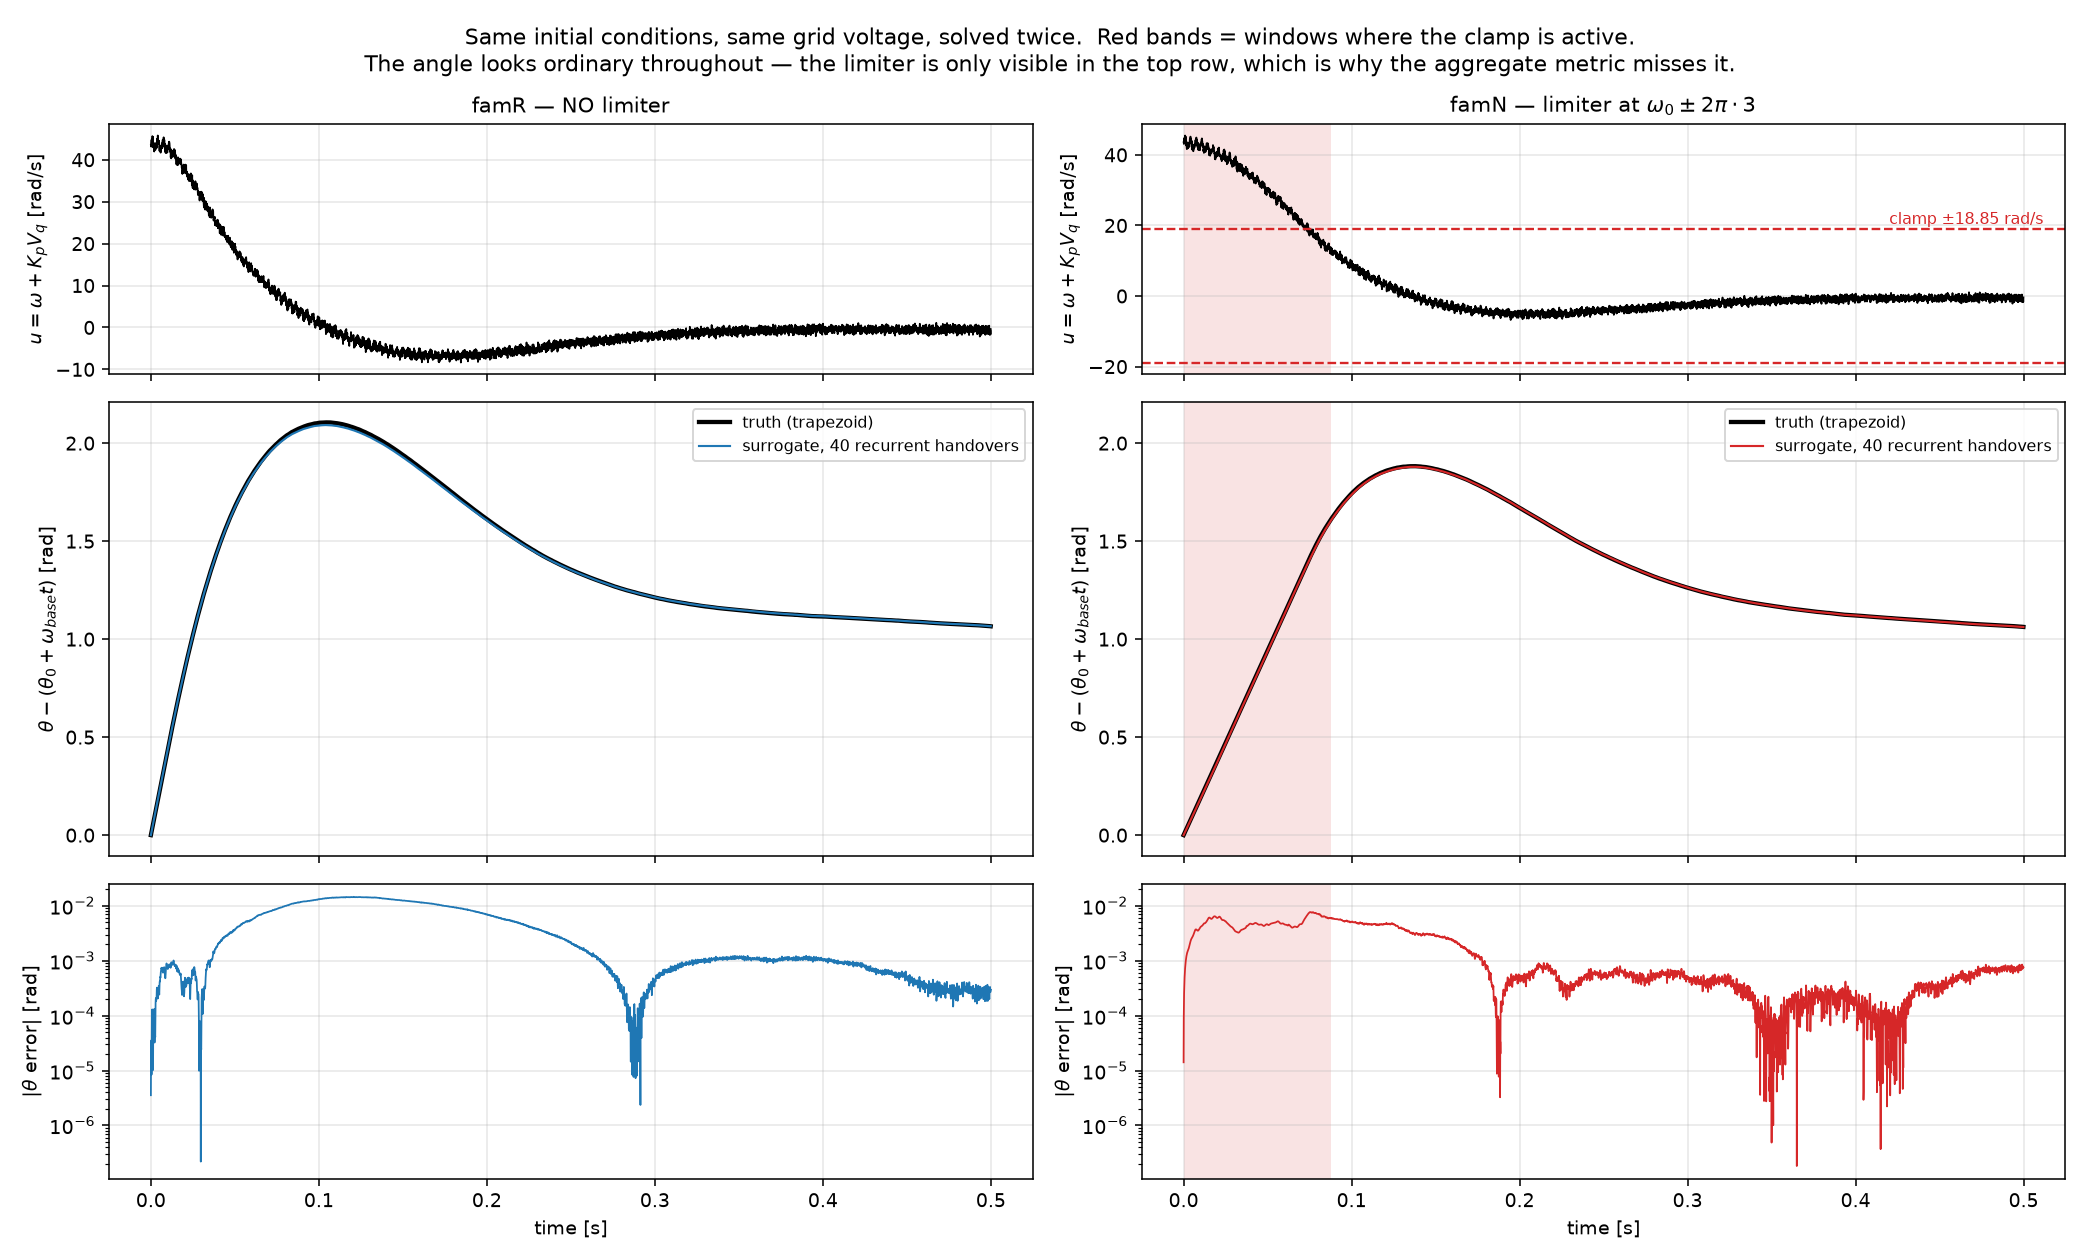
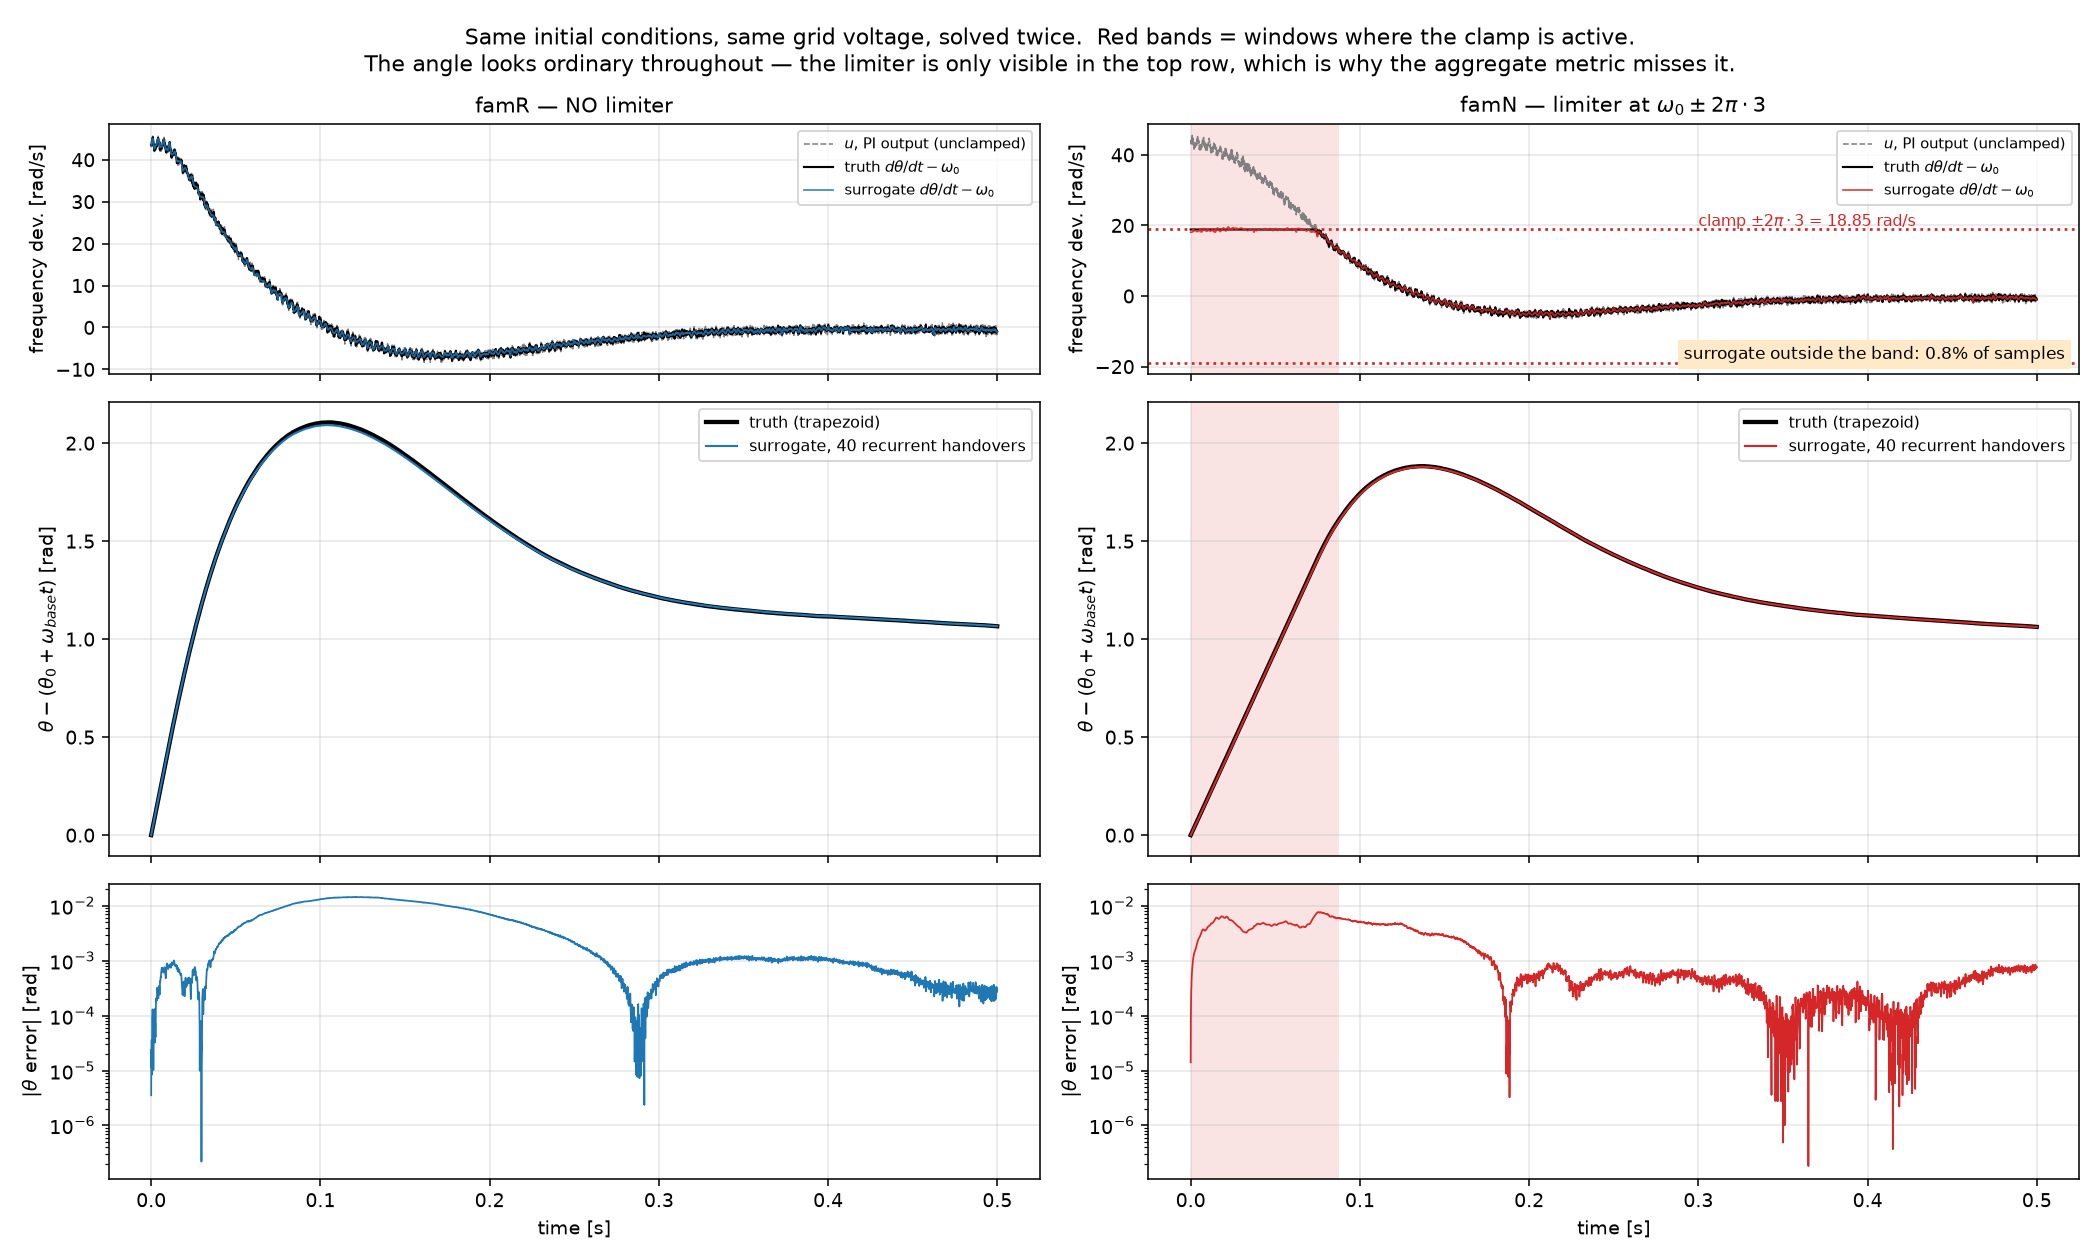
F65: constraint compliance, and famS/famT second draw in the gen script
The surrogate reproduces the clamped flat-top frequency: 0.00% of samples
outside the band on the median run, worst-case overshoot +1.18 rad/s (6.25% of
the limit). Caveat recorded -- numerical differentiation of a predicted angle
amplifies noise and the truth's own floor has not been measured the same way.

graphs/25 top row now plots dtheta/dt against the band rather than the unclamped
PI output, which is what shows the limiter acting and whether the surrogate
respects it.

diff --git a/src/limiter_trace.py b/src/limiter_trace.py
@@ -83,13 +83,28 @@ def main():
             for k in np.where(sat)[0]:
                 ax[row, c].axvspan(k * S * DT, (k + 1) * S * DT, color="tab:red", alpha=.13, lw=0)
 
-        ax[0, c].plot(t, u[r].numpy(), "k", lw=.9)
+        # THE panel: the frequency the PLL actually produces, dtheta/dt - omega_0.
+        # `u` dashed is what the PI *wanted*; the gap between them IS the limiter acting.
+        # The surrogate curve answers the question Siemens actually asked -- does the
+        # SURROGATE honour the limit, or only the solver it was trained on?
+        f_true = np.gradient(th_t[r].numpy(), DT) - OMEGA_BASE
+        f_pred = np.gradient(pth, DT) - OMEGA_BASE
+        ax[0, c].plot(t, u[r].numpy(), color="grey", ls="--", lw=.8, label="$u$, PI output (unclamped)")
+        ax[0, c].plot(t, f_true, "k", lw=1.1, label="truth $d\\theta/dt-\\omega_0$")
+        ax[0, c].plot(t, f_pred, "tab:blue" if c == 0 else "tab:red", lw=.9, alpha=.85,
+                      label="surrogate $d\\theta/dt-\\omega_0$")
         if L:
-            ax[0, c].axhline(L, color="tab:red", ls="--", lw=1.2)
-            ax[0, c].axhline(-L, color="tab:red", ls="--", lw=1.2)
-            ax[0, c].text(0.42, L * 1.08, "clamp $\\pm$18.85 rad/s", color="tab:red", fontsize=8)
+            ax[0, c].axhline(L, color="tab:red", ls=":", lw=1.4)
+            ax[0, c].axhline(-L, color="tab:red", ls=":", lw=1.4)
+            ax[0, c].text(0.30, L * 1.05, "clamp $\\pm 2\\pi\\cdot 3$ = 18.85 rad/s",
+                          color="tab:red", fontsize=8)
+            over = 100 * np.mean(np.abs(f_pred) > L * 1.02)
+            ax[0, c].text(.985, .06, f"surrogate outside the band: {over:.1f}% of samples",
+                          transform=ax[0, c].transAxes, ha="right", fontsize=8.5,
+                          bbox=dict(fc="#ffe9c7", ec="none", pad=3))
         ax[0, c].set_title(name, fontsize=11)
-        ax[0, c].set_ylabel("$u=\\omega+K_p V_q$ [rad/s]")
+        ax[0, c].set_ylabel("frequency dev. [rad/s]")
+        ax[0, c].legend(fontsize=7.5, loc="upper right", ncol=1)
 
         ax[1, c].plot(t, th_t[r].numpy() - ramp, "k", lw=2.2, label="truth (trapezoid)")
         ax[1, c].plot(t, pth - ramp, "tab:blue" if c == 0 else "tab:red", lw=1.1,

diff --git a/docs/notes.md b/docs/notes.md
@@ -1678,6 +1678,26 @@ part of the 2.12x on famN and does nothing on famR, that is a clean mechanistic 
 of the famN/famR pair -- one generate plus 8 jobs. Worth doing before the 2.12x is
 quoted anywhere load-bearing.
 
+**DOES THE SURROGATE HONOUR THE CONSTRAINT?** Siemens specified a hard limit, so this is
+a compliance question, not an accuracy one -- and `graphs/25` (top right) answers it: the
+truth's `dtheta/dt - omega_0` sits FLAT at 18.85 while clamped, and the surrogate sits on
+top of it. It learned the flat top from data plus the residual, never having been told
+about the clamp explicitly. Measured over 48 runs by numerically differentiating the
+predicted angle:
+
+| | |
+|---|---|
+| samples outside the band, median run | **0.00%** |
+| samples outside, worst run | 8.98% |
+| peak abs freq vs the limit, median run | **37% BELOW it** |
+| worst excursion beyond the limit | **+1.18 rad/s = 6.25% of L** |
+
+Most runs never approach the band at all, which matches only ~25% of runs saturating.
+**CAVEAT, resolve before quoting the 6.25%**: `np.gradient` on a predicted angle amplifies
+noise, and the truth's own numerically-differentiated frequency has not been measured the
+same way. If the truth shows comparable excursions the 6.25% is mostly artefact. Cheap to
+check, and it is the number Siemens will ask about first.
+
 Score the grid on `compounding` / `rollout_full_rms`, and on famN condition it on
 saturation exactly as above, or the 4% will average the answer away again (F63).
 
